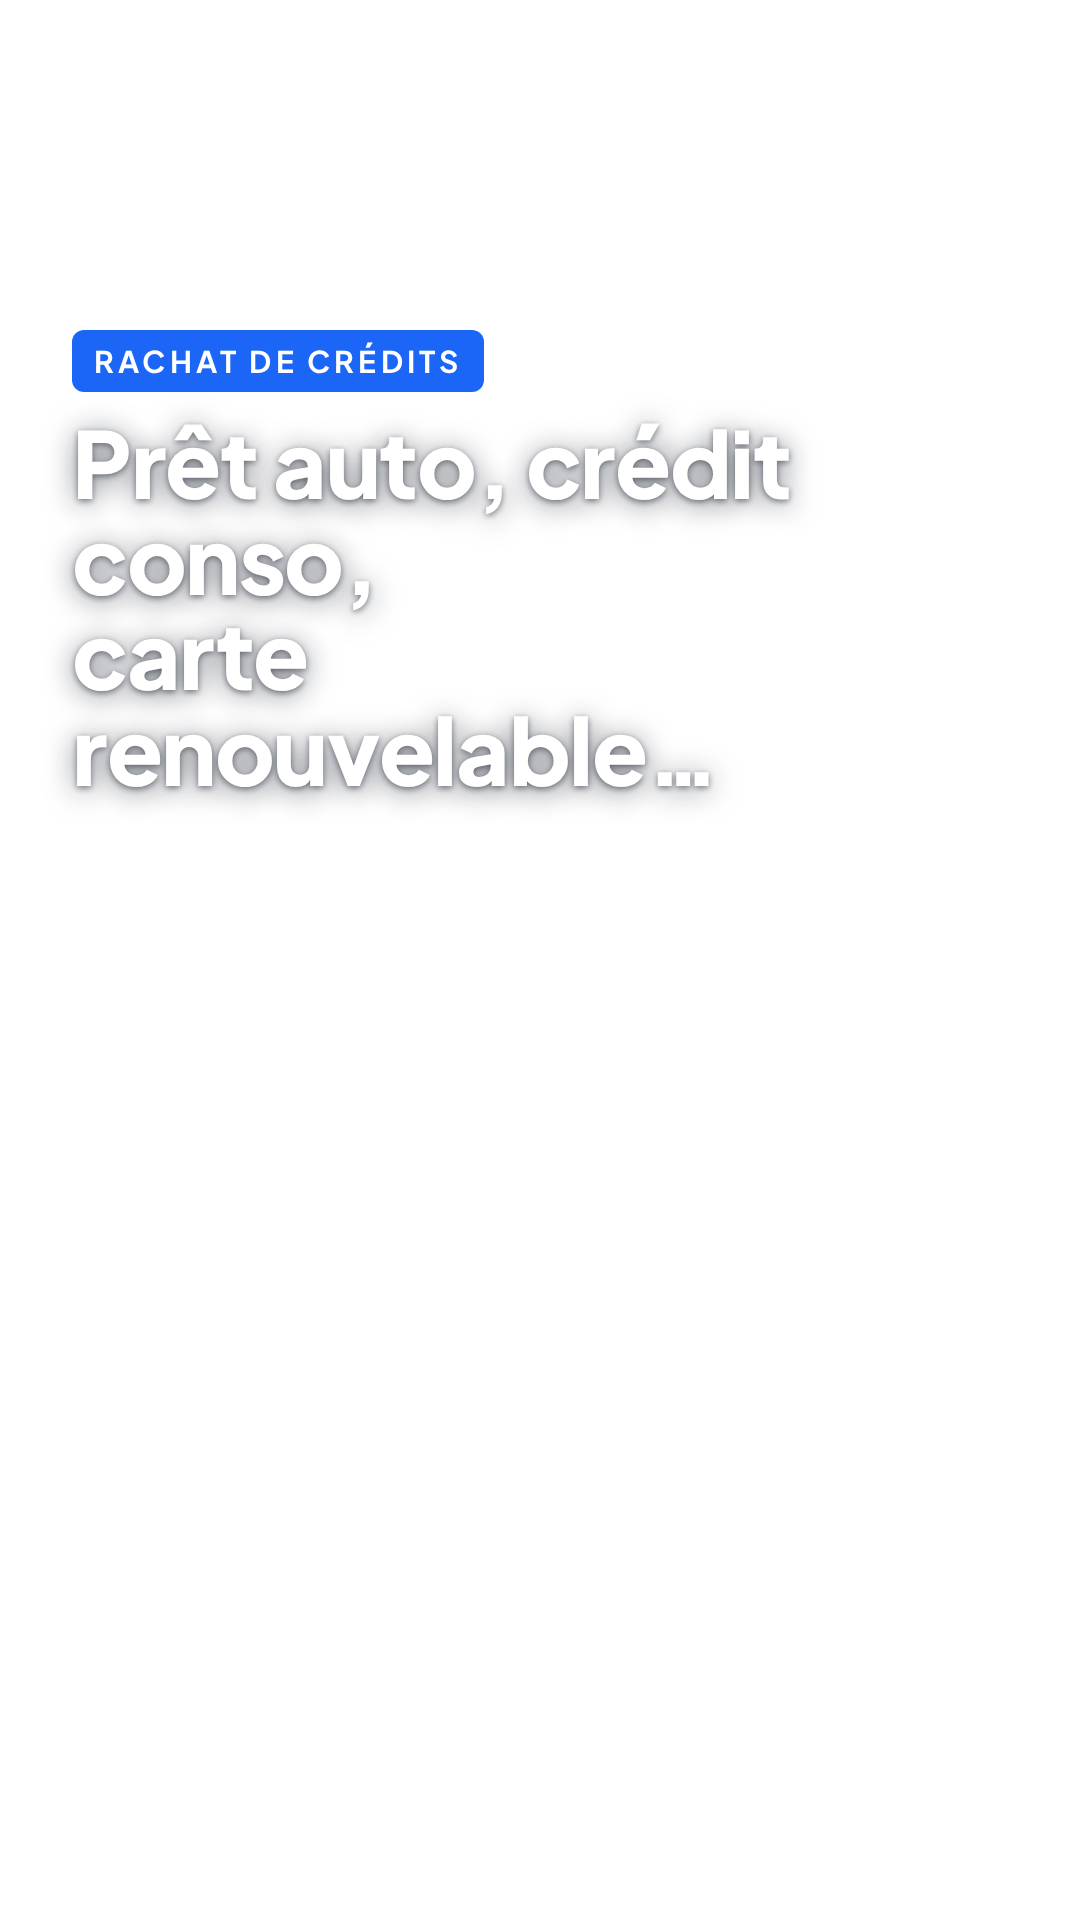
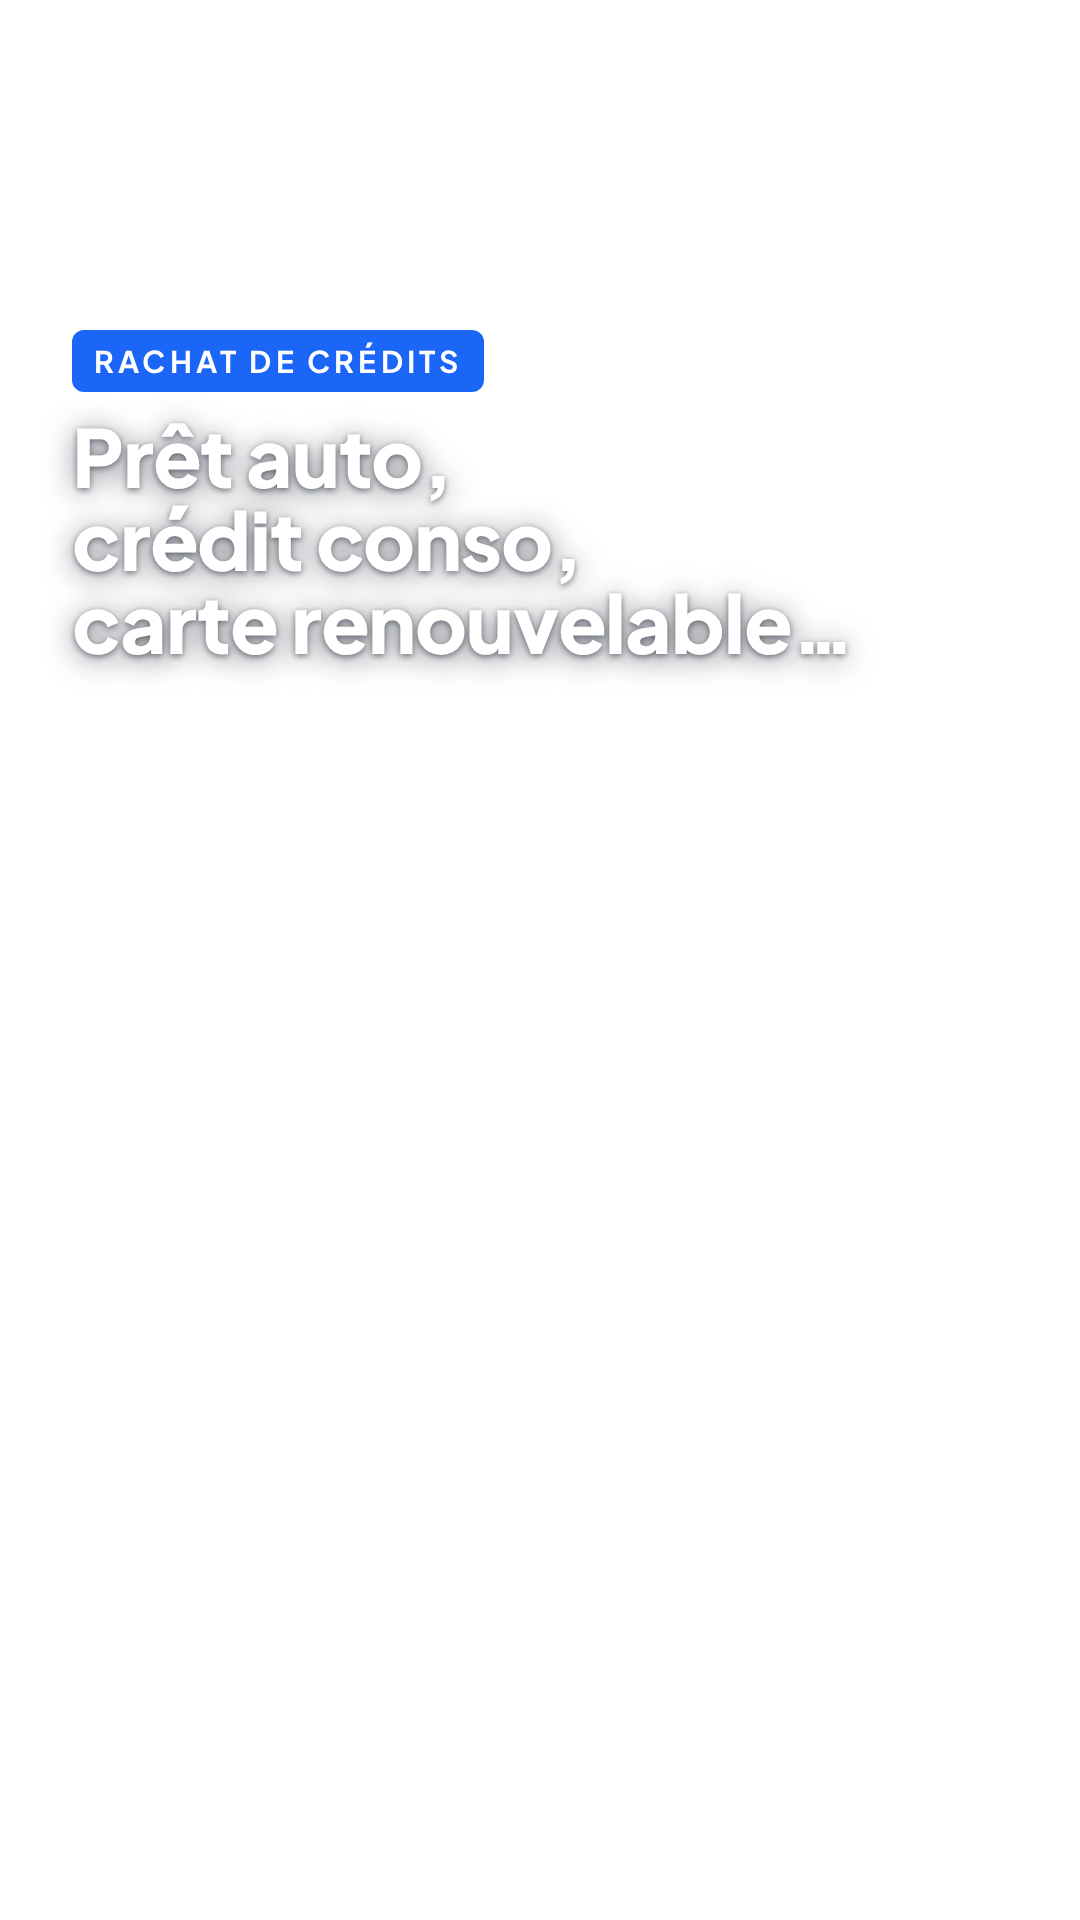
Calques vidéo : taille d'accroche réglable ; accroche crédit sur trois lignes
Claude-Session: https://claude.ai/code/session_01HE9oMBS2e9MbG6PnEeRscp

Changed region(s): [[0.0611, 0.2188, 0.7944, 0.4375]]

diff --git a/tools/video_calques.py b/tools/video_calques.py
@@ -32,7 +32,7 @@ def pagehtml(body, bg='transparent'):
     return f'<html><head><meta charset="utf-8"><style>{CSS}</style></head><body><div class="r" style="background:{bg}">{body}</div></body></html>'
 pages = {
   'logo': f'<img src="file://{img}/logo-blanc.svg" style="position:absolute;left:72px;top:110px;width:190px;filter:drop-shadow(0 3px 12px rgba(11,18,32,.5))">',
-  'accroche': f'<div class="blk" style="top:330px"><span class="k">{E(c["rubrique"])}</span><div class="t">{E(c["accroche"])}</div></div>',
+  'accroche': f'<div class="blk" style="top:330px"><span class="k">{E(c["rubrique"])}</span><div class="t" style="font-size:{c.get("accroche_taille", 92)}px">{E(c["accroche"])}</div></div>',
   'question': f'<div class="blk" style="top:330px"><div class="t">{E(c["question"])}</div></div>',
   'message': f'<div class="blk" style="top:1060px"><div class="msg">{E(c["message"])}<small>{E(c.get("message_sous",""))}</small></div></div>',
 }
